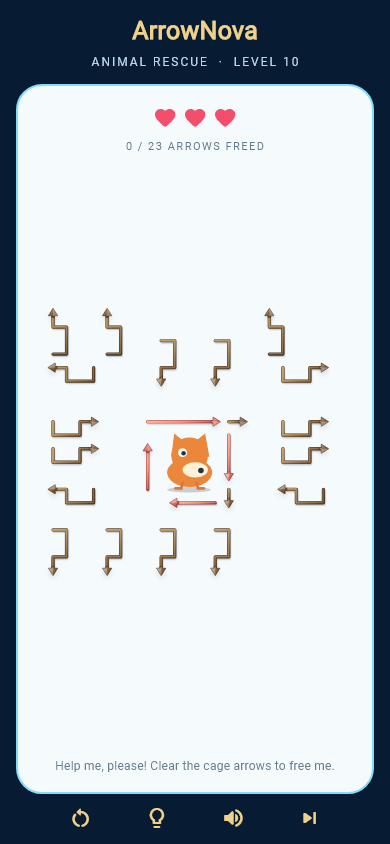
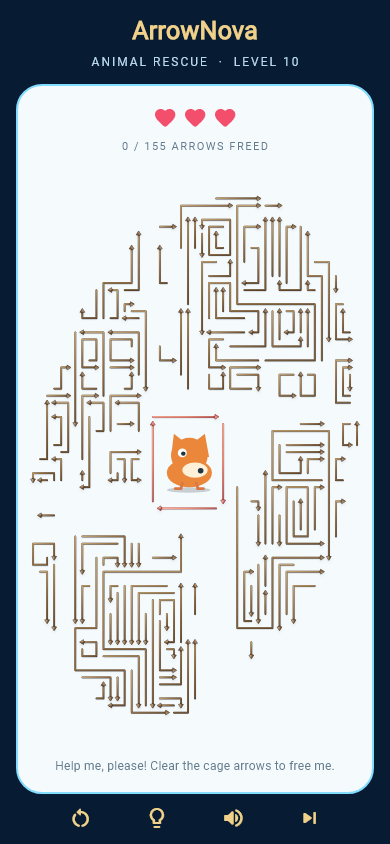
Handcraft Rescue opening maze from reference

diff --git a/mobile/lib/game/puzzle.dart b/mobile/lib/game/puzzle.dart
@@ -171,10 +171,13 @@ class LevelCatalog {
         : endless
         ? EndlessCatalog.arrowCount(level)
         : arrowCount(level);
-    if (rescue && level <= 2) {
-      // Rescue starts from a packed Classic 400 hard layout. Clear a
-      // generous central pocket so the animal and its cage remain unobscured.
-      final classicHard = get(400);
+    if (rescue && level == 1) return _rescueReferenceLayout(level);
+    if (rescue && level >= 2) {
+      // Let later Rescue missions grow from increasingly dense hard boards.
+      final sourceLevel = level <= 10
+          ? const [400, 480, 560, 640, 720, 800, 960, 1040, 1120][level - 2]
+          : min(LevelCatalog.count, 1120 + (level - 10) * 20);
+      final classicHard = get(sourceLevel);
       final centerX = classicHard.width ~/ 2;
       final centerY = classicHard.height ~/ 2;
       final protected = {
@@ -401,6 +404,100 @@ class LevelCatalog {
           ArrowPath(id, allPaths[id]),
       ],
       rescueCageIds: const {0, 1, 2, 3},
+    );
+  }
+
+  static Puzzle _rescueReferenceLayout(int level) {
+    const width = 22;
+    const height = 32;
+    final paths = <ArrowPath>[];
+
+    // Long, alternating multi-turn routes fill the top and bottom of the
+    // board. Their heads reach the outside edge, like the supplied reference.
+    for (var band = 0; band < 3; band++) {
+      final y = band * 3;
+      if (band.isEven) {
+        paths.add(
+          ArrowPath(paths.length, [
+            Cell(0, y),
+            for (var x = 1; x <= width - 2; x++) Cell(x, y),
+            Cell(width - 2, y + 1),
+            for (var x = width - 3; x >= 1; x--) Cell(x, y + 1),
+            Cell(1, y + 2),
+            for (var x = 2; x < width; x++) Cell(x, y + 2),
+          ]),
+        );
+      } else {
+        paths.add(
+          ArrowPath(paths.length, [
+            Cell(width - 1, y),
+            for (var x = width - 2; x >= 0; x--) Cell(x, y),
+            Cell(0, y + 1),
+            for (var x = 1; x <= width - 2; x++) Cell(x, y + 1),
+            Cell(width - 2, y + 2),
+            for (var x = width - 3; x >= 0; x--) Cell(x, y + 2),
+          ]),
+        );
+      }
+    }
+    paths.add(
+      ArrowPath(paths.length, [
+        for (var x = width - 1; x >= 0; x--) Cell(x, 9),
+      ]),
+    );
+    for (var band = 0; band < 3; band++) {
+      final y = 22 + band * 3;
+      if (band.isEven) {
+        paths.add(
+          ArrowPath(paths.length, [
+            Cell(0, y),
+            for (var x = 1; x <= width - 2; x++) Cell(x, y),
+            Cell(width - 2, y + 1),
+            for (var x = width - 3; x >= 1; x--) Cell(x, y + 1),
+            Cell(1, y + 2),
+            for (var x = 2; x < width; x++) Cell(x, y + 2),
+          ]),
+        );
+      } else {
+        paths.add(
+          ArrowPath(paths.length, [
+            Cell(width - 1, y),
+            for (var x = width - 2; x >= 0; x--) Cell(x, y),
+            Cell(0, y + 1),
+            for (var x = 1; x <= width - 2; x++) Cell(x, y + 1),
+            Cell(width - 2, y + 2),
+            for (var x = width - 3; x >= 0; x--) Cell(x, y + 2),
+          ]),
+        );
+      }
+    }
+    paths.add(
+      ArrowPath(paths.length, [for (var x = 0; x < width; x++) Cell(x, 31)]),
+    );
+
+    const sideColumns = [0, 2, 4, 17, 19, 21];
+    for (final x in sideColumns) {
+      paths.add(
+        ArrowPath(paths.length, [for (var y = 15; y >= 10; y--) Cell(x, y)]),
+      );
+      paths.add(
+        ArrowPath(paths.length, [for (var y = 16; y <= 21; y++) Cell(x, y)]),
+      );
+    }
+
+    final cageStart = paths.length;
+    paths.addAll([
+      ArrowPath(cageStart, [for (var x = 7; x <= 14; x++) Cell(x, 12)]),
+      ArrowPath(cageStart + 1, [for (var y = 12; y <= 20; y++) Cell(15, y)]),
+      ArrowPath(cageStart + 2, [for (var x = 14; x >= 7; x--) Cell(x, 20)]),
+      ArrowPath(cageStart + 3, [for (var y = 19; y >= 12; y--) Cell(6, y)]),
+    ]);
+    return Puzzle(
+      level,
+      width,
+      height,
+      paths,
+      rescueCageIds: {cageStart, cageStart + 1, cageStart + 2, cageStart + 3},
     );
   }
 

diff --git a/mobile/tool/render_level_approval_screens_test.dart b/mobile/tool/render_level_approval_screens_test.dart
@@ -26,8 +26,10 @@ void main() {
     }
     await _capture(tester, 'classic-20-hard.png', 20);
     await _capture(tester, 'classic-blocked-edges.png', 6, blockedDemo: true);
+    final rescueArrowCounts = <int>[];
     for (var level = 1; level <= 10; level++) {
       final puzzle = RescueCatalog.get(level);
+      rescueArrowCounts.add(puzzle.arrows.length);
       expect(puzzle.solution().length, puzzle.arrows.length);
       await _capture(
         tester,
@@ -38,9 +40,26 @@ void main() {
     }
     final rescueOne = RescueCatalog.get(1);
     final rescueTwo = RescueCatalog.get(2);
-    expect(rescueOne.arrows.length, greaterThanOrEqualTo(50));
+    expect(rescueOne.width, 22);
+    expect(rescueOne.height, 32);
+    expect(rescueOne.arrows.length, 24);
     expect(rescueOne.rescueCageIds.length, 4);
-    expect(rescueTwo.arrows.length, rescueOne.arrows.length);
+    final rescueOneCells = rescueOne.arrows.expand((arrow) => arrow.cells).toList();
+    expect(rescueOneCells.toSet().length, rescueOneCells.length);
+    final rescueOneOutside = <Cell>{
+      for (final arrow in rescueOne.arrows)
+        if (!rescueOne.rescueCageIds.contains(arrow.id)) ...arrow.cells,
+    };
+    expect(
+      rescueOneOutside.intersection({
+        for (var y = 13; y <= 19; y++)
+          for (var x = 7; x <= 14; x++) Cell(x, y),
+      }),
+      isEmpty,
+    );
+    for (var i = 1; i < rescueArrowCounts.length; i++) {
+      expect(rescueArrowCounts[i], greaterThanOrEqualTo(rescueArrowCounts[i - 1]));
+    }
     expect(rescueTwo.rescueCageIds.length, 4);
     final occupiedOutsideCage = <Cell>{
       for (final arrow in rescueTwo.arrows)
